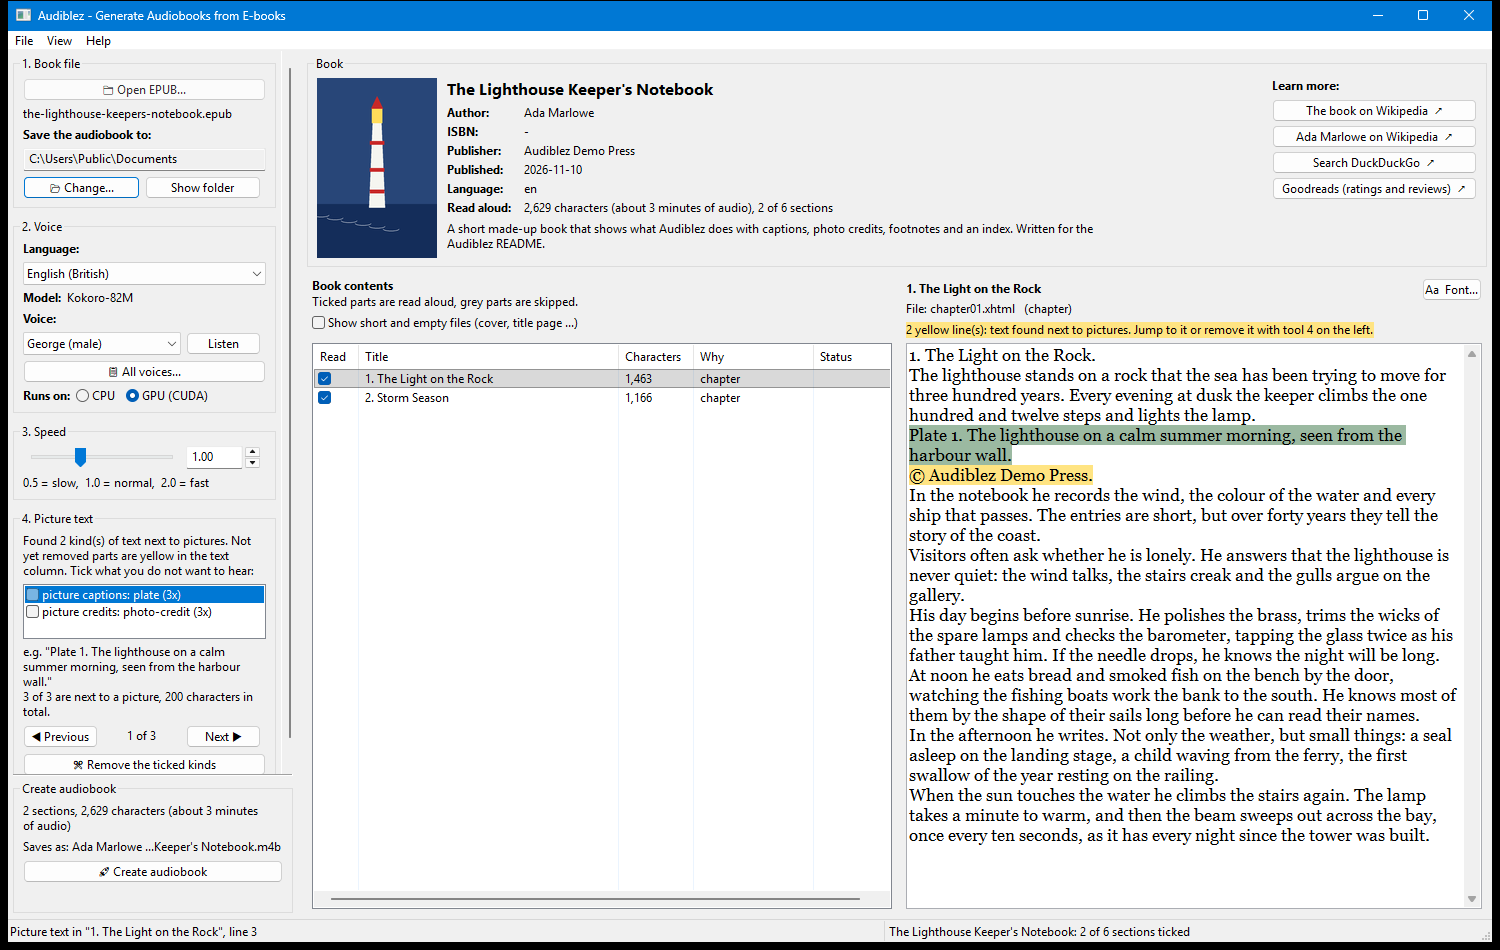
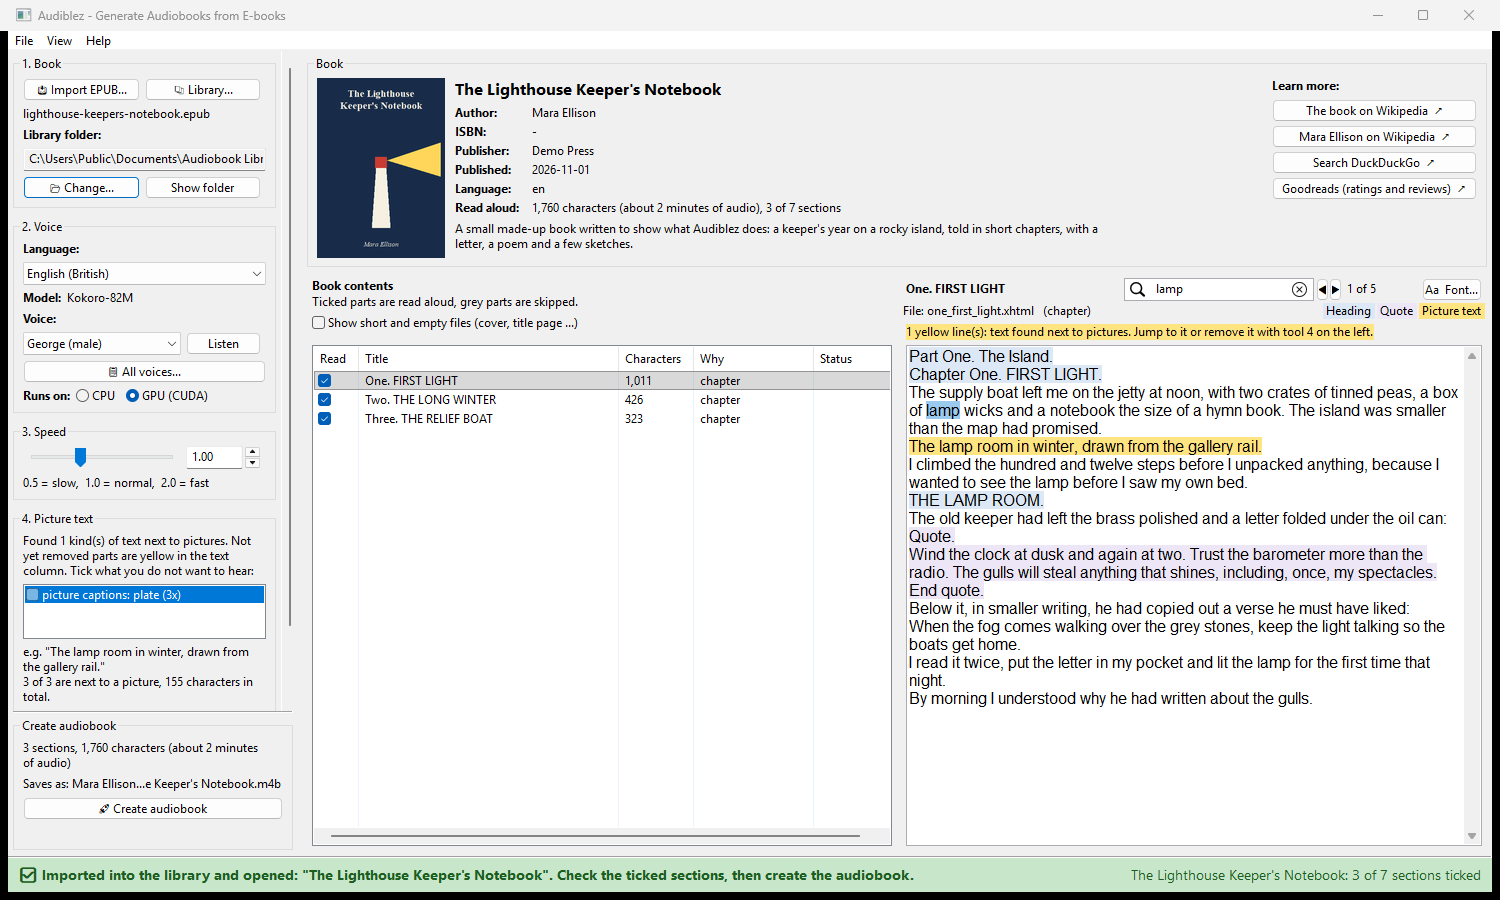
README: describe 0.6 with new screenshots of a made-up demo book
- New screenshots (made with PrintWindow from a real window, throwaway
  settings and a demo library): the main window with coloured lines,
  search and the status banner; the Library window; the error banner.
  They show "The Lighthouse Keeper's Notebook", a demo book written for
  this page, so no copyrighted book appears.
- New section "What you hear": spoken headings, parts, pauses, Quote / End
  quote, flowing poems, quotation marks, with a printed-vs-read table.
- The library, the text column and the status banner get their own parts;
  the comparison table lists the new features; real-book examples replaced.

Changed region(s): [[0.0, 0.0, 1.0, 0.9956], [0.828, 0.0622, 0.9813, 0.2178]]

diff --git a/README.md b/README.md
@@ -8,13 +8,15 @@ Audiblez turns `.epub` e-books into `.m4b` audiobooks with chapters, using the
 > It is based on release v0.4.9; their code and full history are kept in this repository (tag `v0.4.9`), and
 > it stays under the original MIT licence. All credit for Audiblez itself goes to them.
 >
-> The fork focuses on one thing: **hearing only the book itself** — without footnote numbers, picture
-> captions, photo credits, indexes or contents pages read aloud — and on a window that makes it easy to check
-> and adjust what will be read before a long conversion starts.
+> The fork focuses on two things: **hearing only the book itself** — without footnote numbers, picture
+> captions, photo credits, indexes or contents pages read aloud — and **hearing its structure**, the way a
+> narrator would: chapters and parts announced, pauses at new sections, quotations and poems read naturally.
+> A window makes it easy to check and adjust what will be read before a long conversion starts.
 
 ![The Audiblez window: tool column, book card, book contents and the text that will be read aloud](./imgs/fork-main-window.png)
 
-*The screenshots show a small made-up demo book, so no copyrighted book appears here.*
+*The screenshots show a small made-up demo book, "The Lighthouse Keeper's Notebook", written for this page, so
+no copyrighted book appears here.*
 
 ## What is different from the original
 
@@ -22,13 +24,14 @@ Audiblez turns `.epub` e-books into `.m4b` audiobooks with chapters, using the
 |---|---|---|
 | **Text cleaning** | captions with standard names are skipped | footnotes, note markers, indexes, contents lists and page numbers are removed too; you can see what was removed and why (`--report`) |
 | **Picture text** | — | captions and photo credits are **found by their position next to pictures**, whatever the publisher called them; you can jump to each one and remove them |
-| **Which parts are read** | files whose *name* looks like a chapter | real **chapter titles** from the book's table of contents; afterwords and prefaces are included, notes, index, copyright and similar pages are not; every row says **why** |
-| **Window** | list of file names, settings on the side | tool column, book card with cover and links, contents list with greyed-out skipped parts, editable text with highlighting |
+| **Which parts are read** | files whose *name* looks like a chapter | real **chapter titles** from the book's table of contents, also numbered titles; afterwords and prefaces are included, notes, index, copyright, title pages and similar pages are not; every row says **why** |
+| **What you hear** | the text as one stream | **spoken chapter and part headings**, **pauses** around headings and subheadings, **"Quote … End quote"** around quoted extracts, poems read as **flowing text**, no sounds on quotation marks |
+| **Window** | list of file names, settings on the side | tool column, book card with cover and links, contents list with greyed-out skipped parts, editable text **coloured by kind** (headings, quotations, picture text), **search the book** |
 | **Voices** | voice list | languages and voices with readable names, **instant offline samples**, an "All voices" overview |
 | **During conversion** | no way to stop except closing the program | **Stop** button; finished chapters are kept and a new start **continues where it stopped** |
 | **Audiobook file name** | named after the EPUB file | `Author - Title.m4b` from the book's details |
-| **Library** | — | **Import** copies a book into its own folder in one library folder, next to its audiobook; the **Library** window shows every book and whether it was opened, partly made or made into an audiobook |
-| **Comfort** | — | read any highlighted text aloud (right-click), choose the **font** of the book text, status bar, settings remembered |
+| **Library** | — | **Import** (one book or many) copies books into one library folder, each next to its audiobook; the **Library** window shows every book and whether it was opened, partly made or made into an audiobook |
+| **Comfort** | — | read any highlighted text aloud (right-click), choose the **font** of the book text, a coloured **status banner** that flashes on errors, settings remembered |
 | **Packaging** | pip / Poetry | [uv](https://docs.astral.sh/uv/), with PyTorch's CUDA build locked in |
 
 ## Installation
@@ -89,20 +92,28 @@ export UV_PROJECT_ENVIRONMENT=~/.venvs/audiblez
 **Create audiobook** stays at the bottom: it shows how long the audiobook will be and its file name, and turns
 into **Stop** while working. Stopping keeps the finished chapters; pressing Create again continues from there.
 
-**The library** — one folder (by default `Documents\Audiobook Library`) with a folder per book:
+### The library
+
+One folder (by default `Documents\Audiobook Library`) holds a folder per book, named "Author - Title":
 
 ```
 Audiobook Library/
-  library.json                     when each book was imported, last opened and made into an audiobook
-  Yuval Noah Harari - Nexus/
-    Nexus.epub                     the imported copy
-    Yuval Noah Harari - Nexus.m4b  the audiobook
-    work/                          chapter .wav files while it is being made (removed when done)
+  library.json                                        when each book was imported, opened, made into an audiobook
+  Mara Ellison - The Lighthouse Keeper's Notebook/
+    lighthouse-keepers-notebook.epub                  the imported copy (the original file is not changed)
+    Mara Ellison - The Lighthouse Keeper's Notebook.m4b   the audiobook
+    work/                                             chapter .wav files while it is being made (removed when done)
 ```
 
-The Library window reads each book's status from its folder (✅ audiobook made, ⏸ partly made, 📖 opened,
-📥 imported), so it is always right: delete an `.m4b` and the book shows as not made yet. Double-click a book to
-open it.
+Authors written "Surname, First" in the book ("Ellison, Mara") are put in reading order for these names.
+The **Library** window (Ctrl+L) lists every book, most recent first:
+
+![The Library window: every imported book with its status and dates](./imgs/fork-library-window.png)
+
+Each book's status is read from its folder (✅ audiobook made, ⏸ partly made, 📖 opened, 📥 imported), so it is
+always right: delete an `.m4b` and the book shows as not made yet. Double-click a book to open it.
+
+### Book card, contents and text
 
 **Book card (top)** — cover, author, ISBN, publisher, a short description and buttons that search for the
 book and its author on Wikipedia, DuckDuckGo and Goodreads (nothing is looked up until you click).
@@ -111,25 +122,60 @@ book and its author on Wikipedia, DuckDuckGo and Goodreads (nothing is looked up
 read aloud, grey parts are skipped; the **Why** column explains each decision ("chapter", "notes",
 "copyright", …). You can change any tick. Empty files (cover, title pages) are hidden unless you ask for them.
 
-**Text (right)** — exactly what will be read aloud, and you can edit it. Lines are coloured by what they are:
-chapter and part headings and subheadings light blue, quotations lavender, picture text that has not been removed yellow (a
-small legend sits above the text). Every chapter starts with a spoken heading such as "Part 1. Chapter One. Oil
-Drops.", and quoted extracts are framed by "Quote." and "End quote." — all of them are ordinary lines you can
-edit or delete. Subheadings inside chapters — real headings, or short lines in capitals such as "THE CULTURAL
-BREW" — are spoken with a short pause before and after, the way a narrator marks a new section. A poem printed
-one short line per paragraph is joined into flowing text, so it is not read as a string of tiny sentences (lists,
-table cells and code stay line by line). **Search the book** (the box above the text, or Ctrl+F) finds a word in every section and jumps
-from place to place with ◀ ▶ (or Enter / Shift+Enter). **Highlight any text and right-click** to hear it with the chosen voice and speed.
-**Aa Font…** (or View → Text font) chooses the font of this text:
+**Text (right)** — exactly what will be read aloud, and you can edit it. Lines are coloured by what they are
+(a small legend sits above the text):
+
+- **light blue** — chapter and part headings, and subheadings inside a chapter
+- **lavender** — quotations, with their "Quote." and "End quote." lines
+- **yellow** — picture text that has not been removed (tool 4)
+
+After you edit a section by hand its colours are switched off, because the lines may no longer match.
+
+- **Search the book** — the box above the text, or Ctrl+F. It searches every section, ticked or not, and jumps
+  from place to place with ◀ ▶ (or Enter / Shift+Enter), showing "1 of 5".
+- **Highlight any text and right-click** to hear it with the chosen voice and speed.
+- **Aa Font…** (or View → Text font) chooses the font of this text:
 
 ![The Text font window: recommended serif fonts, favourites, all fonts, size and a preview](./imgs/fork-font-window.png)
 
 It lists every font on your system, recommends good serif reading fonts you have installed, and lets you keep
 your own favourites. Changes are shown live; Cancel restores the previous font.
 
-The **status banner** at the bottom always says what the program is doing (opening a book shows each step). Errors flash red and warnings flash amber, and both stay coloured until the next message or until you click ✕; a finished job shows green and then fades.
+### Status banner
+
+The banner at the bottom always says what the program is doing (opening a book shows each step). Errors flash red
+and warnings flash amber, and both stay coloured until the next message or until you click ✕; a finished job
+shows green and then fades back:
+
+![The status banner showing an error in red](./imgs/fork-status-banner.png)
+
 Your choices — voice, speed, library folder, window size, column width, font — are saved in `settings.json` in the
 project folder; delete it to go back to the defaults.
+
+## What you hear
+
+The text column shows these additions as ordinary lines, so you can see, edit or delete each of them before the
+audiobook is made. The start of the demo book's first chapter, as printed and as read:
+
+| Printed in the book | Read aloud |
+|---|---|
+| *(a page of its own)* Part One / The Island | Part One. The Island. |
+| One / FIRST LIGHT | Chapter One. FIRST LIGHT. *(pause)* |
+| THE LAMP ROOM *(a subheading in capitals)* | *(pause)* THE LAMP ROOM. *(pause)* |
+| an indented letter | Quote. Wind the clock at dusk … End quote. |
+| a poem, one short line per paragraph | When the fog comes walking over the grey stones, keep the light talking so the boats get home. |
+
+- **Chapter headings** come from the table of contents and replace the printed heading lines ("One." and
+  "FIRST LIGHT." are not read twice). A part page is too short to be read on its own, so its name is spoken at
+  the start of the next chapter.
+- **Subheadings** — real headings, or short lines in capitals followed by text — get about 0.7 seconds of
+  silence before and after, the way a narrator marks a new section.
+- **Quoted extracts** (a block quote in the book) are framed by "Quote." and "End quote.", unless the block is
+  long or fills most of the page (some books indent whole chapters that way).
+- **Poems** printed one line per paragraph are joined into flowing text instead of a string of tiny sentences.
+  Lists, table cells and code stay line by line.
+- **Quotation marks** are not given to the voice: Kokoro sometimes makes an audible sound on them.
+- The first chapter starts with the book's title and author.
 
 ## Command line
 
@@ -163,6 +209,9 @@ That is the place to spot book-specific leftovers, which you can then remove wit
    picture. A kind of paragraph that is nearly always next to a picture — and is only a small part of the book —
    is offered as a caption or photo credit. This works with any publisher's naming, because it relies on
    position, not on names.
+
+4. **Spoken structure** (`audiblez/spoken_headings.py`, `audiblez/spoken_blocks.py`) adds the headings,
+   quotation markers and pauses described under [What you hear](#what-you-hear).
 
 Nothing is removed silently: the window shows what was skipped and why, and you can change every decision.
 
